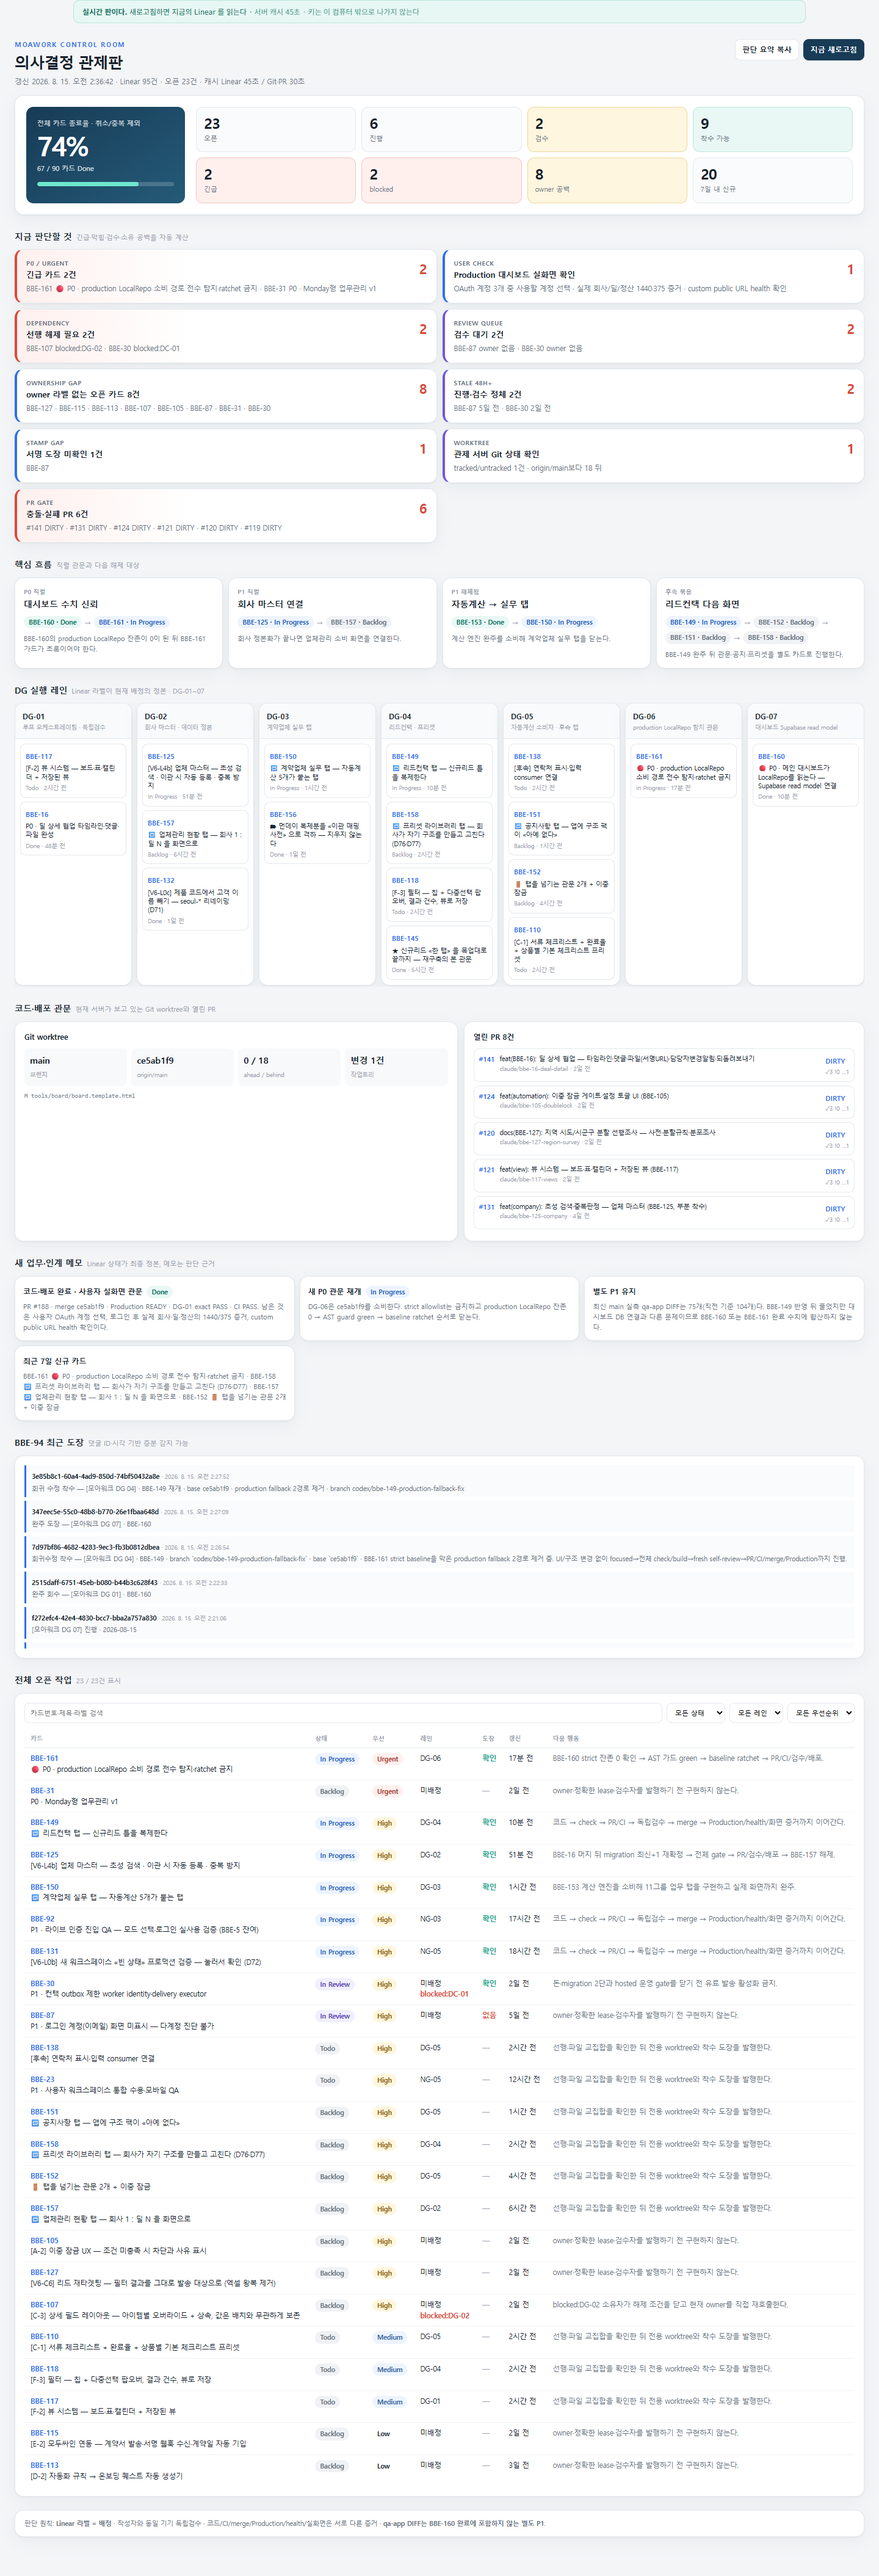
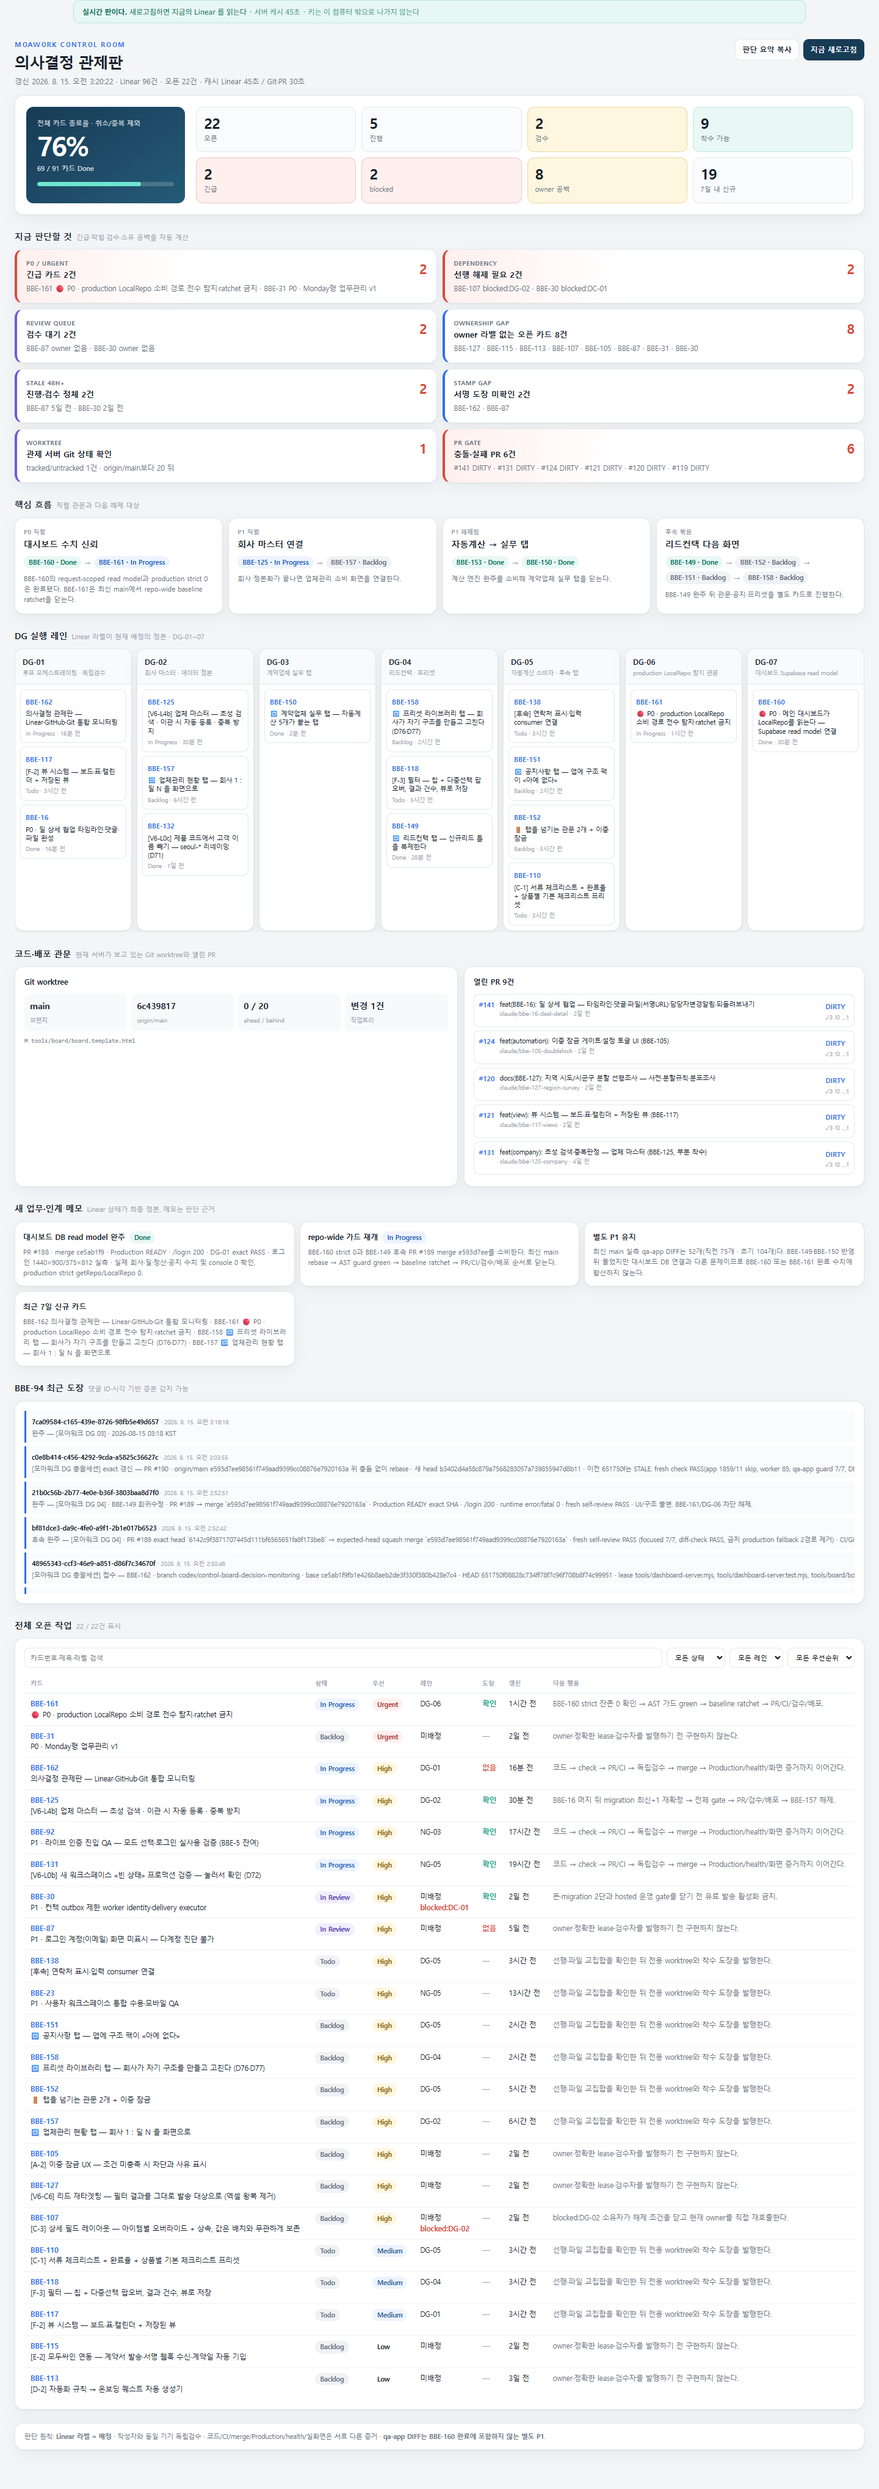
fix(BBE-162): eliminate duplicate Linear comment reads

diff --git a/tools/board/board.template.html b/tools/board/board.template.html
@@ -182,7 +182,7 @@ const FLOWS=[
 const HANDOFF_NOTES=[
  {issue:"BBE-160",title:"대시보드 DB read model 완주",body:"PR #188 · merge ce5ab1f9 · Production READY · /login 200 · DG-01 exact PASS · 로그인 1440×900/375×812 실측 · 실제 회사·딜·정산·공지 수치 및 console 0 확인. production strict getRepo/LocalRepo 0."},
  {issue:"BBE-161",title:"repo-wide 가드 재개",body:"BBE-160 strict 0과 BBE-149 후속 PR #189 merge e593d7ee를 소비한다. 최신 main rebase → AST guard green → baseline ratchet → PR/CI/검수/배포 순서로 닫는다."},
- {issue:null,title:"별도 P1 유지",body:"최신 main 실측 qa-app DIFF는 75개(직전 기준 104개)다. BBE-149 반영 뒤 줄었지만 대시보드 DB 연결과 다른 문제이므로 BBE-160 또는 BBE-161 완료 수치에 합산하지 않는다."}
+ {issue:null,title:"별도 P1 유지",body:"최신 main 실측 qa-app DIFF는 52개(직전 75개 · 초기 104개)다. BBE-149·BBE-150 반영 뒤 줄었지만 대시보드 DB 연결과 다른 문제이므로 BBE-160 또는 BBE-161 완료 수치에 합산하지 않는다."}
 ];
 const SPECIAL_ACTIONS={
  "BBE-161":"BBE-160 strict 잔존 0 확인 → AST 가드 green → baseline ratchet → PR/CI/검수/배포.",
@@ -339,7 +339,7 @@ function brief(){
  const lines=["[모아워크 의사결정 관제판 "+new Date().toLocaleString("ko-KR")+"]","",
   "오픈 "+state.open.length+"건 · 진행 "+state.open.filter((i)=>i.status==="In Progress").length+"건 · 검수 "+state.open.filter((i)=>i.status==="In Review").length+"건",""];
  state.decisions.forEach((d)=>lines.push("["+d.kind+"] "+d.title+" — "+d.body));
- lines.push("","핵심 직렬: BBE-160 → BBE-161 · BBE-125 → BBE-157 · BBE-153 → BBE-150","qa-app DIFF 75개는 별도 P1이며 대시보드 DB 연결 완료에 합산하지 않는다.");
+ lines.push("","핵심 직렬: BBE-160 → BBE-161 · BBE-125 → BBE-157 · BBE-153 → BBE-150","qa-app DIFF 52개는 별도 P1이며 대시보드 DB 연결 완료에 합산하지 않는다.");
  return lines.join("\n");
 }
 async function copyText(text,button){
